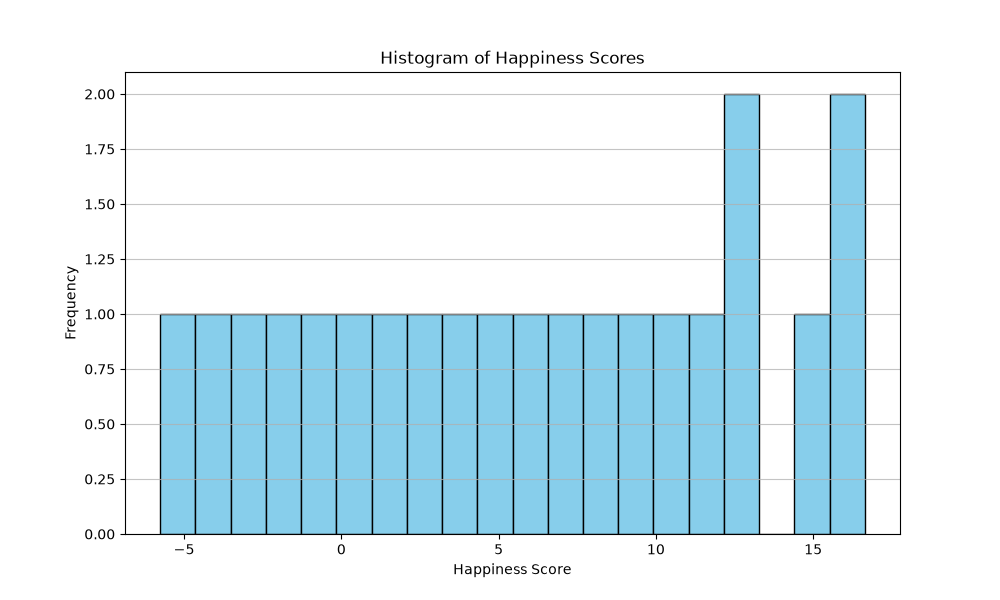
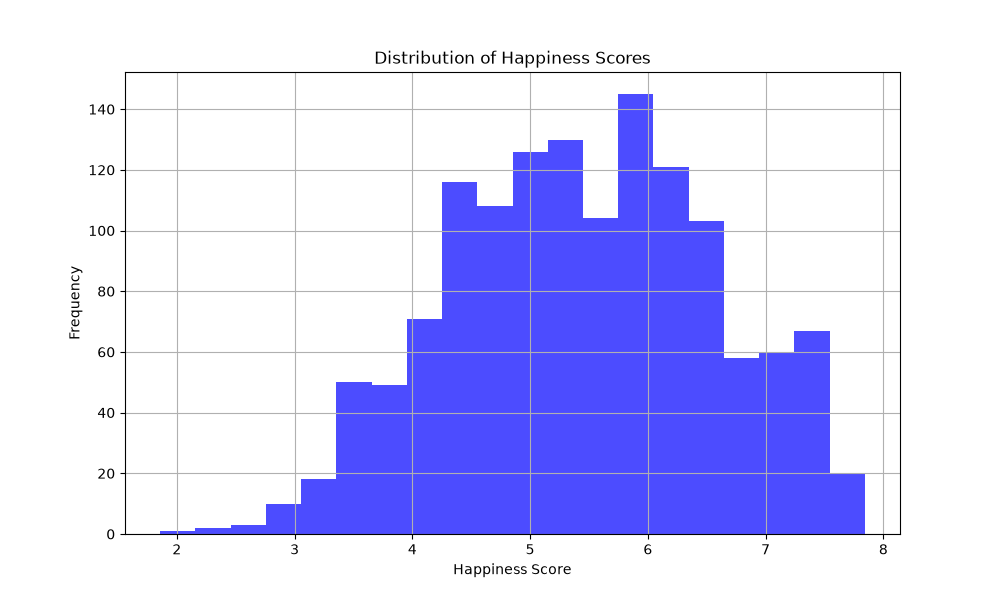
fixed code as per AI review

diff --git a/assignments_07/project_07.py b/assignments_07/project_07.py
@@ -2,7 +2,10 @@ from pathlib import Path
 import os
 
 import pandas as pd
+import matplotlib
+matplotlib.use("Agg")
 import matplotlib.pyplot as plt
+
 from scipy.stats import pearsonr
 from dotenv import load_dotenv
 
@@ -21,48 +24,90 @@ OUTPUTS_DIR.mkdir(exist_ok=True)
 
 df = None
 
+def get_loaded_dataframe():
+    """Return the currently loaded happiness DataFrame."""
+    return df
+
 # ----------------   Task 1 — Define the four tools -------------
 
-# Tool 1: load_happiness_data
+# Tool 1a: load_happiness_data
 
 @tool
 def load_happiness_data() -> dict:
     """Load the World Happiness dataset into memory.
 
+    Loads the merged CSV from DATA_PATH if it exists. If the merged
+    file does not exist, loads and merges the yearly CSV files from
+    the happiness_project resources directory.
+
     Returns:
-        A dictionary containing the dataset shape and column names.
-        Returns an error dictionary if the data cannot be loaded.
+        A dictionary indicating whether the data was loaded successfully.
     """
     global df
 
     path = Path(DATA_PATH)
 
-    if not path.exists():
-        return {
-            "error": f"Could not find the merged dataset at {DATA_PATH}."
-        }
-
     try:
-        df = pd.read_csv(path)
+        # Try the merged dataset first
+        if path.exists():
+            df = pd.read_csv(path)
+
+        else:
+            # Fall back to yearly CSV files
+            resources_path = Path(
+                "../assignments/resources/happiness_project/"
+            )
+
+            csv_files = sorted(resources_path.glob("*.csv"))
+
+            if not csv_files:
+                return {
+                    "error": (
+                        f"Could not find the merged dataset at {DATA_PATH} "
+                        "and no yearly CSV files were found."
+                    )
+                }
+
+            yearly_data = []
+
+            for csv_file in csv_files:
+                yearly_df = pd.read_csv(csv_file)
+                yearly_data.append(yearly_df)
+
+            df = pd.concat(yearly_data, ignore_index=True)
 
         return {
-            "shape": df.shape,
-            "columns": df.columns.tolist(),
+            "status": "success",
+            "message": "Happiness data loaded successfully."
         }
 
     except Exception as e:
         return {
-            "error": f"Could not load the dataset: {type(e).__name__}: {e}"
+            "error": (
+                f"Could not load the dataset: "
+                f"{type(e).__name__}: {e}"
+            )
         }
-"""   
-# TEST TASK 1
-print("\n--- Testing load_happiness_data ---")
+# Tool 1b : get_dataset_info
 
-result = load_happiness_data()
+@tool
+def get_dataset_info() -> dict:
+    """Return the shape and column names of the loaded happiness dataset.
 
-print(result)
+    Returns:
+        A dictionary containing the number of rows, number of columns,
+        dataset shape, and column names.
+    """
+    if df is None:
+        return {
+            "error": "No happiness data is loaded. Run load_happiness_data first."
+        }
 
-"""
+    return {
+        "shape": df.shape,
+        "columns": df.columns.tolist(),
+    }
+
 # Tool 2: summarize_column
 
 @tool
@@ -119,7 +164,18 @@ def compute_correlation(col1: str, col2: str) -> dict:
         return {"error": f"Column '{col2}' was not found."}
 
     try:
-        correlation, p_value = pearsonr(df[col1], df[col2])
+        # Remove rows where either column has a missing value
+        valid_data = df[[col1, col2]].dropna()
+
+        if len(valid_data) < 2:
+            return {
+                "error": "Not enough valid data to compute correlation."
+            }
+
+        correlation, p_value = pearsonr(
+            valid_data[col1],
+            valid_data[col2]
+        )
 
         return {
             "col1": col1,
@@ -216,12 +272,22 @@ model = OpenAIServerModel(
 SYSTEM_PROMPT = """
 You are a data analyst assistant for the World Happiness dataset.
 
-Use the available tools for loading data, summarizing columns,
-computing correlations, and ranking countries.
+Use the available tools for loading data, getting dataset information,
+summarizing columns, computing correlations, and ranking countries.
 
-Write Python code directly only when the tools are not sufficient,
-for example when creating custom plots or computing something the
-tools do not cover.
+The load_happiness_data tool loads the dataset into memory and returns
+a status message. It does not return the DataFrame.
+
+Use get_dataset_info to obtain the dataset shape and column names.
+
+Use summarize_column for descriptive statistics.
+
+Use compute_correlation for Pearson correlation and statistical
+significance. The tool automatically handles missing values.
+
+Write Python code directly when the tools are not sufficient,
+for example when creating custom plots or computing something
+the tools do not cover.
 
 Be concise and student-friendly in your responses.
 """
@@ -229,6 +295,7 @@ Be concise and student-friendly in your responses.
 agent = CodeAgent(
     tools=[
         load_happiness_data,
+        get_dataset_info,
         summarize_column,
         compute_correlation,
         get_top_n_countries,
@@ -257,9 +324,10 @@ if __name__ == "__main__":
 
         "Show me the top 5 happiest countries in 2020.",
 
-        "Plot happiness_score over the years as a line chart, "
-        "with one line per region. "
-        "Save the plot to outputs/happiness_by_region.png.",
+       "Load the happiness data. Create a line chart showing average "
+        "happiness_score by year, with one line for each regional_indicator. "
+        "Use pandas to read ../assignments_01/outputs/merged_happiness.csv "
+        "and save the plot to outputs/happiness_by_region.png.",
     ]
 
     for query in queries:
@@ -267,7 +335,7 @@ if __name__ == "__main__":
 
         response = agent.run(
             query,
-            reset=False
+            reset=True
         )
 
         print(response)
@@ -286,14 +354,19 @@ if __name__ == "__main__":
     print(response_1)
 
     # Comment:
-    # This should primarily trigger the summarize_column tool.
+    # This triggered the summarize_column tool.
 
 
     # My query 2
     my_query_2 = (
-        "Create a histogram of happiness_score and save it as "
-        "outputs/happiness_distribution.png."
+        "Load the happiness data from "
+        "../assignments_01/outputs/merged_happiness.csv. "
+        "Create a histogram of the actual happiness_score values and "
+        "save it as outputs/happiness_distribution.png."
     )
+
+    # Comment:
+    # This query requires code generation because there is no histogram tool.
 
     response_2 = agent.run(
         my_query_2,
@@ -303,34 +376,37 @@ if __name__ == "__main__":
     print("\n--- My Query 2 ---")
     print(response_2)
 
+    # Comment:
+    # This triggered code generation because the available tools do not
+    # include a histogram tool.
+
 # --- Reflection ---
 #
-# 1. In Query 3, how did the agent communicate whether the correlation was
-#    statistically significant? Did it use the p-value correctly? What threshold
-#    did it apply?
+# 1. In Query 3, how did the agent communicate whether the correlation was statistically
+#    significant? Did it use the p-value correctly? What threshold did it apply?
 #
-#    The agent attempted to determine statistical significance using the p-value.
-#    However, in my run the correlation and p-value were returned as NaN because
-#    of missing values in the data. Therefore, the agent could not make a valid
-#    statistical significance determination. A common significance threshold is
-#    p < 0.05.
+#    The agent reported a Pearson correlation of 0.6218 and a p-value of 0.0. It
+#    determined that the correlation was statistically significant because the p-value
+#    was less than 0.05. Therefore, it correctly applied the common significance
+#    threshold of 0.05 and concluded that there is a statistically significant
+#    positive correlation between gdp_per_capita and happiness_score.
 #
-# 2. Did any of the agent's responses surprise you — either by being more capable
-#    than you expected, or less? Describe one specific example.
+# 2. Did any of the agent's responses surprise you — either by being more capable than
+#    you expected, or less? Describe one specific example.
 #
-#    I was surprised that the CodeAgent was able to generate its own matplotlib
-#    code for creating a histogram without having a specific histogram tool.
-#    However, the generated code did not execute successfully because the agent
-#    had difficulty accessing the happiness_score data correctly and encountered
-#    a Matplotlib backend error. This showed me that an agent can generate code
-#    for a task but the generated code may still need to be adjusted for the
-#    structure of the data and the execution environment.
+#    I was surprised by how well the agent was able to recover from an error. When
+#    answering the question about the top 5 happiest countries in 2020, it first used
+#    the incorrect column name "Happiness Score" and received an error. It then
+#    inspected the available columns, recognized that the correct column was
+#    "happiness_score", and successfully completed the query. This showed me that
+#    the agent can use tools, recognize errors, and adjust its approach.
 #
 # 3. What one additional tool would make this agent meaningfully more useful?
-#    Describe what it would do and what kind of question it would help the agent
-#    answer. (You do not need to implement it.)
+#    Describe what it would do and what kind of question it would help the agent answer.
+#    (You do not need to implement it.)
 #
-#    An additional filtering tool would make the agent more useful. It could allow
-#    the agent to filter the dataset by year, region, or other conditions before
-#    performing an analysis. This would help answer questions such as "What is the
-#    average happiness score for European countries in 2020?"
+#    An additional data-filtering tool would make this agent more useful. It could
+#    filter the dataset by specific countries, regions, years, or ranges of values.
+#    This would allow the agent to answer questions such as, "What was the average
+#    happiness score for European countries between 2018 and 2021?" or "Which
+#    countries had a GDP per capita above 8 and a happiness score above 7 in 2021?"
